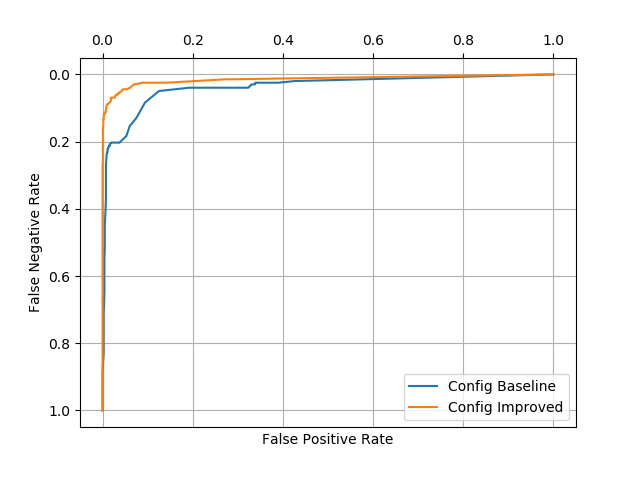
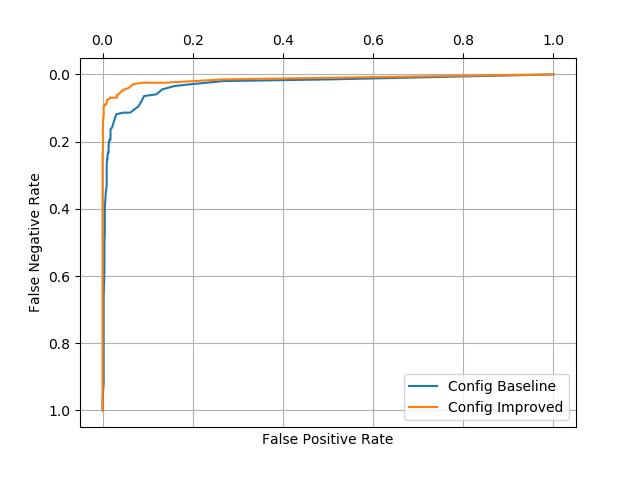
REGENERATED: data for category mistakes and ROC curves w/ and w/o noise.

diff --git a/Assignment4/Code/model/BestSpamModel.py b/Assignment4/Code/model/BestSpamModel.py
@@ -1,6 +1,6 @@
 import collections
 
-import model.DecisionTreeModel as dt
+import model.GeoffDecisionTreeModel as gdt
 import model.LogisticRegressionModel as lg
 import model.RandomForestsModel as rf
 
@@ -15,7 +15,7 @@ class BestSpamModel(object):
                  feature_restriction=0,  # random forest
                  seed=10000):            # random forest
         self.lg = lg.LogisticRegressionModel(threshold=threshold)
-        self.dt = dt.DecisionTreeModel()
+        self.dt = gdt.DecisionTreeModel()
         self.rf = rf.RandomForestModel(numTrees=num_trees,
                                        bagging_w_replacement=bagging_w_replacement,
                                        feature_restriction=feature_restriction,
@@ -34,7 +34,7 @@ class BestSpamModel(object):
 
         print("Fitting Decision Tree Model with min to stop {}"
               .format(min_to_stop))
-        self.dt.fit(xTrains, yTrains, min_to_stop)
+        self.dt.fit(xTrains, yTrains, minToSplit=min_to_stop)
 
         print("Fitting Random Forests with {} trees and min to stop {}"
               .format(self.rf.numTrees, min_to_stop))
@@ -70,7 +70,7 @@ class BestSpamModel(object):
         #lg_pred = self.lg.predict(xTests_w_0)
         lg_pred = self.lg.predict_probabilities(xTests_w_0)
         #dt_pred = self.dt.predict(xTests)
-        dt_pred = self.dt.predict_probabilities(xTests)
+        dt_pred = self.dt.predict(xTests)
         rf_pred = self.rf.predict(xTests)
         #rf_pred = self.rf.predict_probabilities(xTests)
         predictions = []

diff --git a/Assignment4/Code/assignments/prob2_roc_curves.py b/Assignment4/Code/assignments/prob2_roc_curves.py
@@ -3,7 +3,7 @@ import os
 
 import utils.Assignment4Support as sup
 import utils.EvaluationsStub as es
-import model.DecisionTreeModel as dtm
+import model.GeoffDecisionTreeModel as gdtm
 from Assignment4.Code import report_path
 from model.BestSpamModel import BestSpamModel
 from utils.EvaluationsStub import Evaluation
@@ -34,8 +34,8 @@ def get_evaluation(xTrainRaw, yTrainRaw, xTestRaw, yTestRaw,
 
     (xTrain, xTest) = featurize(xTrainRaw, xTestRaw)
 
-    model = dtm.DecisionTreeModel()
-    model.fit(xTrain, yTrain, min_to_step)
+    model = gdtm.DecisionTreeModel()
+    model.fit(xTrain, yTrain, minToSplit=min_to_step)
 
     yTestPredicted = model.predict(xTest, threshold)
     return es.Evaluation(yTest, yTestPredicted)
@@ -47,7 +47,6 @@ def compare_roc_curves_by_configs(configs,
                                   with_noise=True):
     graphs = []
     legends = []
-    original_fpr_fnr = []
     for i, config in enumerate(configs):
         legends.append('Config {}'.format(config['name']))
         fs_config = {'numFrequentWords': config['feature_selection_by_frequency'],
@@ -84,7 +83,7 @@ def compare_roc_curves_by_configs(configs,
                           img_fname,
                           legends=legends,
                           invert_yaxis=True,
-                        data_pt='-')
+                          data_pt='-')
 
 
 if __name__ == '__main__':

diff --git a/Assignment4/Code/model/GeoffDecisionTreeModel.py b/Assignment4/Code/model/GeoffDecisionTreeModel.py
@@ -103,12 +103,15 @@ class TreeNode(object):
             self.children.append(childNode)
             childNode.GrowTree(minToSplit, featureSet)
 
-    def predict(self, x):
+    def predict(self, x, threshold=None):
+        if threshold:
+            self.threshold = threshold
+
         if self.splitIndex != None:
             if x[self.splitIndex] < self.threshold:
-                return self.children[0].predict(x)
+                return self.children[0].predict(x, threshold)
             else:
-                return self.children[1].predict(x)
+                return self.children[1].predict(x, threshold)
         return self.labelDistribution.most_common(1)[0][0]
 
     def visualize(self, depth=1):

diff --git a/Assignment4/Report/prob2_category_mistake_false_negative_w_mi_20.md b/Assignment4/Report/prob2_category_mistake_false_negative_w_mi_20.md
@@ -10,15 +10,15 @@
   |     0.021152368341531374     | Reminder: You have not downloaded the content you have already paid for. Goto http://doit. mymoby. tv/ to collect your content.|
   |     0.035205607542868396     | Your credits have been topped up for http://www.bubbletext.com Your renewal Pin is tgxxrz|
   |     0.04932013248498171      | Hi I'm sue. I am 20 years old and work as a lapdancer. I love sex. Text me live - I'm i my bedroom now. text SUE to 89555. By TextOperator G2 1DA 150ppmsg 18+|
-  |     0.05105911204739083      | SMS. ac Blind Date 4U!: Rodds1 is 21/m from Aberdeen, United Kingdom. Check Him out http://img. sms. ac/W/icmb3cktz8r7!-4 no Blind Dates send HIDE|
   |     0.05268142971603876      | FreeMsg Why haven't you replied to my text? I'm Randy, sexy, female and live local. Luv to hear from u. Netcollex Ltd 08700621170150p per msg reply Stop to end|
-  |     0.06650378152611856      | Someone U know has asked our dating service 2 contact you! Cant Guess who? CALL 09058091854 NOW all will be revealed. PO BOX385 M6 6WU|
-  |     0.07862064560985564      | <Forwarded from 448712404000>Please CALL 08712404000 immediately as there is an urgent message waiting for you.|
-  |     0.07862064560985564      | Please CALL 08712402779 immediately as there is an urgent message waiting for you|
-  |     0.07974437718670567      | FreeMsg Hey there darling it's been 3 week's now and no word back! I'd like some fun you up for it still? Tb ok! XxX std chgs to send, £1.50 to rcv|
-  |     0.07974437718670567      | Hey I am really horny want to chat or see me naked text hot to 69698 text charged at 150pm to unsubscribe text stop 69698|
-  |     0.07974437718670567      | Talk sexy!! Make new friends or fall in love in the worlds most discreet text dating service. Just text VIP to 83110 and see who you could meet.|
-  |     0.07974437718670567      | I don't know u and u don't know me. Send CHAT to 86688 now and let's find each other! Only 150p/Msg rcvd. HG/Suite342/2Lands/Row/W1J6HL LDN. 18 years or over.|
-  |     0.08339251430910777      | Are you unique enough? Find out from 30th August. www.areyouunique.co.uk|
-  |     0.08339251430910777      | 100 dating service cal;l 09064012103 box334sk38ch|
-  |     0.08339251430910777      | U were outbid by simonwatson5120 on the Shinco DVD Plyr. 2 bid again, visit sms. ac/smsrewards 2 end bid notifications, reply END OUT|
+  |      0.1319347188456733      | 08714712388 between 10am-7pm Cost 10p|
+  |     0.17116579442112745      | Do you want 750 anytime any network mins 150 text and a NEW VIDEO phone for only five pounds per week call 08002888812 or reply for delivery tomorrow|
+  |     0.17116579442112745      | We tried to contact you re our offer of New Video Phone 750 anytime any network mins HALF PRICE Rental camcorder call 08000930705 or reply for delivery Wed|
+  |     0.23414497738360152      | Reply with your name and address and YOU WILL RECEIVE BY POST a weeks completely free accommodation at various global locations www.phb1.com ph:08700435505150p|
+  |     0.31695737830466175      | Text & meet someone sexy today. U can find a date or even flirt its up to U. Join 4 just 10p. REPLY with NAME & AGE eg Sam 25. 18 -msg recd@thirtyeight pence|
+  |     0.33660481991153907      | HMV BONUS SPECIAL 500 pounds of genuine HMV vouchers to be won. Just answer 4 easy questions. Play Now! Send HMV to 86688 More info:www.100percent-real.com|
+  |     0.33677339776167653      | SMS. ac Blind Date 4U!: Rodds1 is 21/m from Aberdeen, United Kingdom. Check Him out http://img. sms. ac/W/icmb3cktz8r7!-4 no Blind Dates send HIDE|
+  |     0.34361392497512044      | -PLS STOP bootydelious (32/F) is inviting you to be her friend. Reply YES-434 or NO-434 See her: www.SMS.ac/u/bootydelious STOP? Send STOP FRND to 62468|
+  |     0.34361392497512044      | U are subscribed to the best Mobile Content Service in the UK for £3 per 10 days until you send STOP to 82324. Helpline 08706091795|
+  |     0.34361392497512044      | Dear Subscriber ur draw 4 £100 gift voucher will b entered on receipt of a correct ans. When was Elvis Presleys Birthday? TXT answer to 80062|
+  |      0.3477537815261185      | Someone U know has asked our dating service 2 contact you! Cant Guess who? CALL 09058091854 NOW all will be revealed. PO BOX385 M6 6WU|

diff --git a/Assignment4/Report/prob2_category_mistake_false_negative_w_mi_100.md b/Assignment4/Report/prob2_category_mistake_false_negative_w_mi_100.md
@@ -7,18 +7,18 @@
   |     0.016103706579435197     | Hello. We need some posh birds and chaps to user trial prods for champneys. Can i put you down? I need your address and dob asap. Ta r|
   |     0.018947734578921592     | Reminder: You have not downloaded the content you have already paid for. Goto http://doit. mymoby. tv/ to collect your content.|
   |     0.04448377692550959      | Filthy stories and GIRLS waiting for your|
-  |     0.049884048011616916     | SMS. ac Blind Date 4U!: Rodds1 is 21/m from Aberdeen, United Kingdom. Check Him out http://img. sms. ac/W/icmb3cktz8r7!-4 no Blind Dates send HIDE|
   |     0.05898189546920954      | Will u meet ur dream partner soon? Is ur career off 2 a flyng start? 2 find out free, txt HORO followed by ur star sign, e. g. HORO ARIES|
-  |     0.07077939391503194      | <Forwarded from 448712404000>Please CALL 08712404000 immediately as there is an urgent message waiting for you.|
+  |     0.06494514891065324      | XXXMobileMovieClub: To use your credit, click the WAP link in the next txt message or click here>> http://wap. xxxmobilemovieclub.com?n=QJKGIGHJJGCBL|
+  |     0.06526383048586491      | U were outbid by simonwatson5120 on the Shinco DVD Plyr. 2 bid again, visit sms. ac/smsrewards 2 end bid notifications, reply END OUT|
   |     0.07900088728813288      | BangBabes Ur order is on the way. U SHOULD receive a Service Msg 2 download UR content. If U do not, GoTo wap. bangb. tv on UR mobile internet/service menu|
-  |     0.08215622226249433      | Your credits have been topped up for http://www.bubbletext.com Your renewal Pin is tgxxrz|
-  |     0.08280585588603734      | Are you unique enough? Find out from 30th August. www.areyouunique.co.uk|
   |     0.09165689586674186      | Do you realize that in about 40 years, we'll have thousands of old ladies running around with tattoos?|
   |     0.12477771596319269      | 100 dating service cal;l 09064012103 box334sk38ch|
   |     0.12872091167055352      | Want 2 get laid tonight? Want real Dogging locations sent direct 2 ur Mob? Join the UK's largest Dogging Network by txting MOAN to 69888Nyt. ec2a. 31p.msg@150p|
+  |      0.1472473931915896      | Ur balance is now £500. Ur next question is: Who sang 'Uptown Girl' in the 80's ? 2 answer txt ur ANSWER to 83600. Good luck!|
+  |      0.1634011248590215      | Win the newest “Harry Potter and the Order of the Phoenix (Book 5) reply HARRY, answer 5 questions - chance to be the first among readers!|
   |     0.17838556548741172      | 08714712388 between 10am-7pm Cost 10p|
-  |     0.21261911053950863      | all the lastest from Stereophonics, Marley, Dizzee Racal, Libertines and The Strokes! Win Nookii games with Flirt!! Click TheMob WAP Bookmark or text WAP to 82468|
-  |      0.2135887256635743      | from www.Applausestore.com MonthlySubscription@50p/msg max6/month T&CsC web age16 2stop txt stop|
-  |      0.2241311649581547      | network operator. The service is free. For T & C's visit 80488.biz|
-  |      0.2678242903790243      | We tried to contact you re our offer of New Video Phone 750 anytime any network mins HALF PRICE Rental camcorder call 08000930705 or reply for delivery Wed|
-  |      0.3542158636544473      | You have an important customer service announcement from PREMIER.|
+  |     0.21655071467828357      | SMS. ac Blind Date 4U!: Rodds1 is 21/m from Aberdeen, United Kingdom. Check Him out http://img. sms. ac/W/icmb3cktz8r7!-4 no Blind Dates send HIDE|
+  |     0.22024966207011207      | Ur cash-balance is currently 500 pounds - to maximize ur cash-in now send CASH to 86688 only 150p/msg. CC: 08708800282 HG/Suite342/2Lands Row/W1J6HL|
+  |     0.23268544093748308      | Ur HMV Quiz cash-balance is currently £500 - to maximize ur cash-in now send HMV1 to 86688 only 150p/msg|
+  |      0.2374460605816986      | <Forwarded from 448712404000>Please CALL 08712404000 immediately as there is an urgent message waiting for you.|
+  |     0.24882288892916102      | Your credits have been topped up for http://www.bubbletext.com Your renewal Pin is tgxxrz|

diff --git a/Assignment4/Report/prob2_category_mistake_false_positives_w_mi_20.md b/Assignment4/Report/prob2_category_mistake_false_positives_w_mi_20.md
@@ -4,10 +4,8 @@
   |-|-|
   |      0.9099370421160753      | Can you call me plz. Your number shows out of coveragd area. I have urgnt call in vasai &amp; have to reach before 4'o clock so call me plz|
   |      0.9075682316254134      | Yun ah.the ubi one say if ü wan call by tomorrow.call 67441233 look for irene.ere only got bus8,22,65,61,66,382. Ubi cres,ubi tech park.6ph for 1st 5wkg days.èn|
-  |      0.8704018588177599      | Hmmm.. Thk sure got time to hop ard... Ya, can go 4 free abt... Muz call u to discuss liao...|
   |      0.8469374085690141      | Ups which is 3days also, and the shipping company that takes 2wks. The other way is usps which takes a week but when it gets to lag you may have to bribe nipost to get your stuff.|
   |      0.8427587223279254      | 1.20 that call cost. Which i guess isnt bad. Miss ya, need ya, want ya, love ya|
   |      0.8427587223279254      | Was actually sleeping and still might when u call back. So a text is gr8. You rock sis. Will send u a text wen i wake.|
-  |      0.789003286326731       | is your hamster dead? Hey so tmr i meet you at 1pm orchard mrt?|
-  |      0.729033750524799       | Nothing. I meant that once the money enters your account here, the bank will remove its flat rate. Someone transfered  &lt;#&gt;  to my account and  &lt;#&gt; dollars got removed. So the banks differ and charges also differ.be sure you trust the 9ja person you are sending account details to cos...|
-  |      0.5044991277544608      | Book which lesson? then you msg me... I will call up after work or sth... I'm going to get specs. My membership is PX3748|
+  |      0.759290747706649       | Hmmm.. Thk sure got time to hop ard... Ya, can go 4 free abt... Muz call u to discuss liao...|
+  |      0.755797196795044       | I love u 2 babe! R u sure everything is alrite. Is he being an idiot? Txt bak girlie|

diff --git a/Assignment4/Report/prob2_category_mistake_false_positives_w_mi_100.md b/Assignment4/Report/prob2_category_mistake_false_positives_w_mi_100.md
@@ -2,8 +2,8 @@
 
   | Probabilities | Test Raw |
   |-|-|
-  |      0.6421534191599408      | As per your request 'Melle Melle (Oru Minnaminunginte Nurungu Vettam)' has been set as your callertune for all Callers. Press *9 to copy your friends Callertune|
-  |      0.6421534191599408      | As per your request 'Melle Melle (Oru Minnaminunginte Nurungu Vettam)' has been set as your callertune for all Callers. Press *9 to copy your friends Callertune|
-  |      0.6421534191599408      | As per your request 'Melle Melle (Oru Minnaminunginte Nurungu Vettam)' has been set as your callertune for all Callers. Press *9 to copy your friends Callertune|
   |      0.5680962560718008      | Can you call me plz. Your number shows out of coveragd area. I have urgnt call in vasai &amp; have to reach before 4'o clock so call me plz|
-  |      0.5037500982180291      | Your gonna have to pick up a $1 burger for yourself on your way home. I can't even move. Pain is killing me.|
+  |     0.47548675249327416      | As per your request 'Melle Melle (Oru Minnaminunginte Nurungu Vettam)' has been set as your callertune for all Callers. Press *9 to copy your friends Callertune|
+  |     0.47548675249327416      | As per your request 'Melle Melle (Oru Minnaminunginte Nurungu Vettam)' has been set as your callertune for all Callers. Press *9 to copy your friends Callertune|
+  |     0.47548675249327416      | As per your request 'Melle Melle (Oru Minnaminunginte Nurungu Vettam)' has been set as your callertune for all Callers. Press *9 to copy your friends Callertune|
+  |     0.33708343155136244      | Your gonna have to pick up a $1 burger for yourself on your way home. I can't even move. Pain is killing me.|
